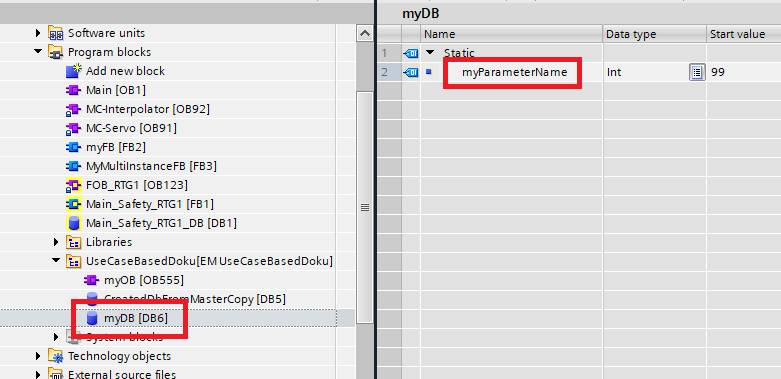
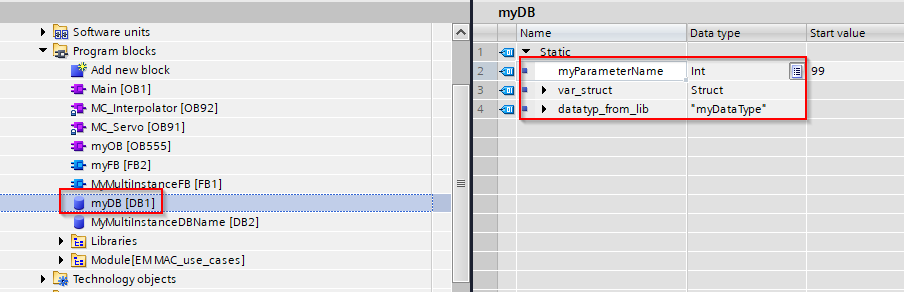
docs: Update Doxygen documentation

Changed region(s): [[0.0, 0.0, 1.0, 1.0]]

diff --git a/html/_generic_block_creation_8cs_source.html b/html/_generic_block_creation_8cs_source.html
@@ -155,17 +155,17 @@ $(function(){initNavTree('_generic_block_creation_8cs_source.html',''); initResi
 <div class="line"><a id="l00075" name="l00075"></a><span class="lineno">   75</span>            var axesDataDB = <span class="keyword">new</span> XmlGlobalDB(<a class="code hl_variable" href="class_m_a_c__use__cases_1_1_model_1_1_use_cases_1_1_generic_block_creation.html#a320981f311000b0caa2aa757c3fc51ab">dbName</a>);</div>
 <div class="line"><a id="l00076" name="l00076"></a><span class="lineno">   76</span>            var itf = axesDataDB.Interface[InterfaceSections.Static];</div>
 <div class="line"><a id="l00077" name="l00077"></a><span class="lineno">   77</span> </div>
-<div class="line"><a id="l00078" name="l00078"></a><span class="lineno">   78</span>            <span class="comment">//Define two interface parameters</span></div>
-<div class="line"><a id="l00079" name="l00079"></a><span class="lineno">   79</span>            InterfaceParameter standardParam;</div>
-<div class="line"><a id="l00080" name="l00080"></a><span class="lineno">   80</span>            InterfaceParameter customParam;</div>
-<div class="line"><a id="l00081" name="l00081"></a><span class="lineno">   81</span> </div>
-<div class="line"><a id="l00082" name="l00082"></a><span class="lineno">   82</span>            <span class="comment">//Create new parameters. The custom parameter means you are using your own user defined data type.</span></div>
-<div class="line"><a id="l00083" name="l00083"></a><span class="lineno">   83</span>            standardParam = <span class="keyword">new</span> InterfaceParameter(<a class="code hl_variable" href="class_m_a_c__use__cases_1_1_model_1_1_use_cases_1_1_generic_block_creation.html#a5055df5312bc4d73f1510c225ff3d24c">parameterName</a>, <span class="stringliteral">&quot;Int&quot;</span>);</div>
-<div class="line"><a id="l00084" name="l00084"></a><span class="lineno">   84</span>            customParam = <span class="keyword">new</span> InterfaceParameter(<a class="code hl_variable" href="class_m_a_c__use__cases_1_1_model_1_1_use_cases_1_1_generic_block_creation.html#a5055df5312bc4d73f1510c225ff3d24c">parameterName</a>, <span class="stringliteral">&quot;\&quot;&quot;</span> + <a class="code hl_variable" href="class_m_a_c__use__cases_1_1_model_1_1_use_cases_1_1_generic_block_creation.html#a06b0a6a47508b5048cdcbdd56c46c591">dataType</a> + <span class="stringliteral">&quot;\&quot;&quot;</span>);</div>
-<div class="line"><a id="l00085" name="l00085"></a><span class="lineno">   85</span> </div>
-<div class="line"><a id="l00086" name="l00086"></a><span class="lineno">   86</span>            <span class="comment">//Add your parameters </span></div>
-<div class="line"><a id="l00087" name="l00087"></a><span class="lineno">   87</span>            itf.Add(standardParam);</div>
-<div class="line"><a id="l00088" name="l00088"></a><span class="lineno">   88</span>            <span class="comment">//itf.Add(customParam); // Add this if your DataType exists</span></div>
+<div class="line"><a id="l00078" name="l00078"></a><span class="lineno">   78</span>            <span class="comment">//Create new parameters. The custom parameter means you are using your own user defined data type.</span></div>
+<div class="line"><a id="l00079" name="l00079"></a><span class="lineno">   79</span>            var standardParam = <span class="keyword">new</span> InterfaceParameter(<a class="code hl_variable" href="class_m_a_c__use__cases_1_1_model_1_1_use_cases_1_1_generic_block_creation.html#a5055df5312bc4d73f1510c225ff3d24c">parameterName</a>, <span class="stringliteral">&quot;Int&quot;</span>);</div>
+<div class="line"><a id="l00080" name="l00080"></a><span class="lineno">   80</span>            var customParam1 = <span class="keyword">new</span> InterfaceParameter(<span class="stringliteral">&quot;var_struct&quot;</span>, <span class="stringliteral">&quot;Struct&quot;</span>);</div>
+<div class="line"><a id="l00081" name="l00081"></a><span class="lineno">   81</span>            customParam1.SubParameter.Add(<span class="keyword">new</span> InterfaceParameter(<span class="stringliteral">&quot;Var1&quot;</span>, <span class="stringliteral">&quot;Bool&quot;</span>));</div>
+<div class="line"><a id="l00082" name="l00082"></a><span class="lineno">   82</span>            customParam1.SubParameter.Add(<span class="keyword">new</span> InterfaceParameter(<span class="stringliteral">&quot;Var2&quot;</span>, <span class="stringliteral">&quot;Int&quot;</span>));</div>
+<div class="line"><a id="l00083" name="l00083"></a><span class="lineno">   83</span>            var customParam2 = <span class="keyword">new</span> InterfaceParameter(<span class="stringliteral">&quot;datatyp_from_lib&quot;</span>, <span class="stringliteral">&quot;\&quot;&quot;</span> + <span class="stringliteral">&quot;myDataType&quot;</span> + <span class="stringliteral">&quot;\&quot;&quot;</span>);</div>
+<div class="line"><a id="l00084" name="l00084"></a><span class="lineno">   84</span> </div>
+<div class="line"><a id="l00085" name="l00085"></a><span class="lineno">   85</span>            <span class="comment">//Add your parameters </span></div>
+<div class="line"><a id="l00086" name="l00086"></a><span class="lineno">   86</span>            itf.Add(standardParam);</div>
+<div class="line"><a id="l00087" name="l00087"></a><span class="lineno">   87</span>            itf.Add(customParam1);</div>
+<div class="line"><a id="l00088" name="l00088"></a><span class="lineno">   88</span>            itf.Add(customParam2);</div>
 <div class="line"><a id="l00089" name="l00089"></a><span class="lineno">   89</span> </div>
 <div class="line"><a id="l00090" name="l00090"></a><span class="lineno">   90</span>            axesDataDB.GenerateXmlBlock(plcDevice);</div>
 <div class="line"><a id="l00091" name="l00091"></a><span class="lineno">   91</span>        }</div>
@@ -368,7 +368,7 @@ $(function(){initNavTree('_generic_block_creation_8cs_source.html',''); initResi
 <div class="ttc" id="aclass_m_a_c__use__cases_1_1_model_1_1_use_cases_1_1_generic_block_creation_html"><div class="ttname"><a href="class_m_a_c__use__cases_1_1_model_1_1_use_cases_1_1_generic_block_creation.html">MAC_use_cases.Model.UseCases.GenericBlockCreation</a></div><div class="ttdoc">All the functions to configure and generate Blocks are defined here.</div><div class="ttdef"><b>Definition</b> <a href="#l00017">GenericBlockCreation.cs:18</a></div></div>
 <div class="ttc" id="aclass_m_a_c__use__cases_1_1_model_1_1_use_cases_1_1_generic_block_creation_html_a04bfdaf6684648c9f6f02aa8203c364d"><div class="ttname"><a href="class_m_a_c__use__cases_1_1_model_1_1_use_cases_1_1_generic_block_creation.html#a04bfdaf6684648c9f6f02aa8203c364d">MAC_use_cases.Model.UseCases.GenericBlockCreation.AddCodeBlockToOB</a></div><div class="ttdeci">static void AddCodeBlockToOB(XmlLogicalBlock codeBlock, ResourceManagement resourceManagement, string languagesettings, PlcDevice plcDevice)</div><div class="ttdoc">This function checks if OB is already in TIA Project and merge the new one into the existing one depe...</div><div class="ttdef"><b>Definition</b> <a href="#l00235">GenericBlockCreation.cs:235</a></div></div>
 <div class="ttc" id="aclass_m_a_c__use__cases_1_1_model_1_1_use_cases_1_1_generic_block_creation_html_a06b0a6a47508b5048cdcbdd56c46c591"><div class="ttname"><a href="class_m_a_c__use__cases_1_1_model_1_1_use_cases_1_1_generic_block_creation.html#a06b0a6a47508b5048cdcbdd56c46c591">MAC_use_cases.Model.UseCases.GenericBlockCreation.dataType</a></div><div class="ttdeci">static string dataType</div><div class="ttdoc">This is the name of the generated datatype.</div><div class="ttdef"><b>Definition</b> <a href="#l00030">GenericBlockCreation.cs:30</a></div></div>
-<div class="ttc" id="aclass_m_a_c__use__cases_1_1_model_1_1_use_cases_1_1_generic_block_creation_html_a28ba56a459c7a46496f9ee8698e9974c"><div class="ttname"><a href="class_m_a_c__use__cases_1_1_model_1_1_use_cases_1_1_generic_block_creation.html#a28ba56a459c7a46496f9ee8698e9974c">MAC_use_cases.Model.UseCases.GenericBlockCreation.GenerateDB</a></div><div class="ttdeci">static void GenerateDB(string dbName, PlcDevice plcDevice, MAC_use_casesEM module)</div><div class="ttdoc">This function creates a Data Block with dynamic parameters in a desired folder.</div><div class="ttdef"><b>Definition</b> <a href="#l00073">GenericBlockCreation.cs:73</a></div></div>
+<div class="ttc" id="aclass_m_a_c__use__cases_1_1_model_1_1_use_cases_1_1_generic_block_creation_html_a28ba56a459c7a46496f9ee8698e9974c"><div class="ttname"><a href="class_m_a_c__use__cases_1_1_model_1_1_use_cases_1_1_generic_block_creation.html#a28ba56a459c7a46496f9ee8698e9974c">MAC_use_cases.Model.UseCases.GenericBlockCreation.GenerateDB</a></div><div class="ttdeci">static void GenerateDB(string dbName, PlcDevice plcDevice, MAC_use_casesEM module)</div><div class="ttdoc">This function creates a Data Block with interface (sub-)parameters in a desired folder....</div><div class="ttdef"><b>Definition</b> <a href="#l00073">GenericBlockCreation.cs:73</a></div></div>
 <div class="ttc" id="aclass_m_a_c__use__cases_1_1_model_1_1_use_cases_1_1_generic_block_creation_html_a31997b7cf0dfa6f6e5249e3135cee7aa"><div class="ttname"><a href="class_m_a_c__use__cases_1_1_model_1_1_use_cases_1_1_generic_block_creation.html#a31997b7cf0dfa6f6e5249e3135cee7aa">MAC_use_cases.Model.UseCases.GenericBlockCreation.SetDefaultValue</a></div><div class="ttdeci">static void SetDefaultValue(string dbName, string parameterName, TIATYPE dataType, string value, MAC_use_casesEM parent)</div><div class="ttdoc">This function sets the default value of a parameter in a DB.</div><div class="ttdef"><b>Definition</b> <a href="#l00130">GenericBlockCreation.cs:130</a></div></div>
 <div class="ttc" id="aclass_m_a_c__use__cases_1_1_model_1_1_use_cases_1_1_generic_block_creation_html_a320981f311000b0caa2aa757c3fc51ab"><div class="ttname"><a href="class_m_a_c__use__cases_1_1_model_1_1_use_cases_1_1_generic_block_creation.html#a320981f311000b0caa2aa757c3fc51ab">MAC_use_cases.Model.UseCases.GenericBlockCreation.dbName</a></div><div class="ttdeci">static string dbName</div><div class="ttdoc">This is the name of the generated DB.</div><div class="ttdef"><b>Definition</b> <a href="#l00022">GenericBlockCreation.cs:22</a></div></div>
 <div class="ttc" id="aclass_m_a_c__use__cases_1_1_model_1_1_use_cases_1_1_generic_block_creation_html_a36251f778d39a6f7a82c5ea22d4eff9f"><div class="ttname"><a href="class_m_a_c__use__cases_1_1_model_1_1_use_cases_1_1_generic_block_creation.html#a36251f778d39a6f7a82c5ea22d4eff9f">MAC_use_cases.Model.UseCases.GenericBlockCreation.GenerateOB_Main</a></div><div class="ttdeci">static void GenerateOB_Main(string instanceDbName, MAC_use_casesEM module, string languagesettings, PlcDevice plcDevice)</div><div class="ttdoc">This function generates an OB and creates an block call in FBD and SCL.</div><div class="ttdef"><b>Definition</b> <a href="#l00187">GenericBlockCreation.cs:187</a></div></div>

diff --git a/html/class_m_a_c__use__cases_1_1_model_1_1_use_cases_1_1_generic_block_creation.html b/html/class_m_a_c__use__cases_1_1_model_1_1_use_cases_1_1_generic_block_creation.html
@@ -114,7 +114,7 @@ Static Public Member Functions</h2></td></tr>
 <tr class="memdesc:a7a1152c4f1deae42637458bab9295508"><td class="mdescLeft">&#160;</td><td class="mdescRight">This function creates a FB in the target plc (folder under program blocks). Additional titles or comments can be added here too.  <br /></td></tr>
 <tr class="separator:a7a1152c4f1deae42637458bab9295508"><td class="memSeparator" colspan="2">&#160;</td></tr>
 <tr class="memitem:a28ba56a459c7a46496f9ee8698e9974c" id="r_a28ba56a459c7a46496f9ee8698e9974c"><td class="memItemLeft" align="right" valign="top">static void&#160;</td><td class="memItemRight" valign="bottom"><a class="el" href="#a28ba56a459c7a46496f9ee8698e9974c">GenerateDB</a> (string <a class="el" href="#a320981f311000b0caa2aa757c3fc51ab">dbName</a>, PlcDevice plcDevice, <a class="el" href="class_m_a_c__use__cases_1_1_model_1_1_m_a_c__use__cases_e_m.html">MAC_use_casesEM</a> module)</td></tr>
-<tr class="memdesc:a28ba56a459c7a46496f9ee8698e9974c"><td class="mdescLeft">&#160;</td><td class="mdescRight">This function creates a Data Block with dynamic parameters in a desired folder.  <br /></td></tr>
+<tr class="memdesc:a28ba56a459c7a46496f9ee8698e9974c"><td class="mdescLeft">&#160;</td><td class="mdescRight">This function creates a Data Block with interface (sub-)parameters in a desired folder. The variables in the interface can have a standard data types or a data type defined in the project.  <br /></td></tr>
 <tr class="separator:a28ba56a459c7a46496f9ee8698e9974c"><td class="memSeparator" colspan="2">&#160;</td></tr>
 <tr class="memitem:a31997b7cf0dfa6f6e5249e3135cee7aa" id="r_a31997b7cf0dfa6f6e5249e3135cee7aa"><td class="memItemLeft" align="right" valign="top">static void&#160;</td><td class="memItemRight" valign="bottom"><a class="el" href="#a31997b7cf0dfa6f6e5249e3135cee7aa">SetDefaultValue</a> (string <a class="el" href="#a320981f311000b0caa2aa757c3fc51ab">dbName</a>, string <a class="el" href="#a5055df5312bc4d73f1510c225ff3d24c">parameterName</a>, TIATYPE <a class="el" href="#a06b0a6a47508b5048cdcbdd56c46c591">dataType</a>, string value, <a class="el" href="class_m_a_c__use__cases_1_1_model_1_1_m_a_c__use__cases_e_m.html">MAC_use_casesEM</a> parent)</td></tr>
 <tr class="memdesc:a31997b7cf0dfa6f6e5249e3135cee7aa"><td class="mdescLeft">&#160;</td><td class="mdescRight">This function sets the default value of a parameter in a DB.  <br /></td></tr>
@@ -263,7 +263,7 @@ Static Private Member Functions</h2></td></tr>
 </table>
 </div><div class="memdoc">
 
-<p>This function creates a Data Block with dynamic parameters in a desired folder. </p>
+<p>This function creates a Data Block with interface (sub-)parameters in a desired folder. The variables in the interface can have a standard data types or a data type defined in the project. </p>
 <div class="image">
 <img src="GenerateDB.png" alt=""/>
 </div>
@@ -280,21 +280,20 @@ Static Private Member Functions</h2></td></tr>
 <div class="line"><span class="lineno">   75</span>            var axesDataDB = <span class="keyword">new</span> XmlGlobalDB(<a class="code hl_variable" href="#a320981f311000b0caa2aa757c3fc51ab">dbName</a>);</div>
 <div class="line"><span class="lineno">   76</span>            var itf = axesDataDB.Interface[InterfaceSections.Static];</div>
 <div class="line"><span class="lineno">   77</span> </div>
-<div class="line"><span class="lineno">   78</span>            <span class="comment">//Define two interface parameters</span></div>
-<div class="line"><span class="lineno">   79</span>            InterfaceParameter standardParam;</div>
-<div class="line"><span class="lineno">   80</span>            InterfaceParameter customParam;</div>
-<div class="line"><span class="lineno">   81</span> </div>
-<div class="line"><span class="lineno">   82</span>            <span class="comment">//Create new parameters. The custom parameter means you are using your own user defined data type.</span></div>
-<div class="line"><span class="lineno">   83</span>            standardParam = <span class="keyword">new</span> InterfaceParameter(<a class="code hl_variable" href="#a5055df5312bc4d73f1510c225ff3d24c">parameterName</a>, <span class="stringliteral">&quot;Int&quot;</span>);</div>
-<div class="line"><span class="lineno">   84</span>            customParam = <span class="keyword">new</span> InterfaceParameter(<a class="code hl_variable" href="#a5055df5312bc4d73f1510c225ff3d24c">parameterName</a>, <span class="stringliteral">&quot;\&quot;&quot;</span> + <a class="code hl_variable" href="#a06b0a6a47508b5048cdcbdd56c46c591">dataType</a> + <span class="stringliteral">&quot;\&quot;&quot;</span>);</div>
-<div class="line"><span class="lineno">   85</span> </div>
-<div class="line"><span class="lineno">   86</span>            <span class="comment">//Add your parameters </span></div>
-<div class="line"><span class="lineno">   87</span>            itf.Add(standardParam);</div>
-<div class="line"><span class="lineno">   88</span>            <span class="comment">//itf.Add(customParam); // Add this if your DataType exists</span></div>
+<div class="line"><span class="lineno">   78</span>            <span class="comment">//Create new parameters. The custom parameter means you are using your own user defined data type.</span></div>
+<div class="line"><span class="lineno">   79</span>            var standardParam = <span class="keyword">new</span> InterfaceParameter(<a class="code hl_variable" href="#a5055df5312bc4d73f1510c225ff3d24c">parameterName</a>, <span class="stringliteral">&quot;Int&quot;</span>);</div>
+<div class="line"><span class="lineno">   80</span>            var customParam1 = <span class="keyword">new</span> InterfaceParameter(<span class="stringliteral">&quot;var_struct&quot;</span>, <span class="stringliteral">&quot;Struct&quot;</span>);</div>
+<div class="line"><span class="lineno">   81</span>            customParam1.SubParameter.Add(<span class="keyword">new</span> InterfaceParameter(<span class="stringliteral">&quot;Var1&quot;</span>, <span class="stringliteral">&quot;Bool&quot;</span>));</div>
+<div class="line"><span class="lineno">   82</span>            customParam1.SubParameter.Add(<span class="keyword">new</span> InterfaceParameter(<span class="stringliteral">&quot;Var2&quot;</span>, <span class="stringliteral">&quot;Int&quot;</span>));</div>
+<div class="line"><span class="lineno">   83</span>            var customParam2 = <span class="keyword">new</span> InterfaceParameter(<span class="stringliteral">&quot;datatyp_from_lib&quot;</span>, <span class="stringliteral">&quot;\&quot;&quot;</span> + <span class="stringliteral">&quot;myDataType&quot;</span> + <span class="stringliteral">&quot;\&quot;&quot;</span>);</div>
+<div class="line"><span class="lineno">   84</span> </div>
+<div class="line"><span class="lineno">   85</span>            <span class="comment">//Add your parameters </span></div>
+<div class="line"><span class="lineno">   86</span>            itf.Add(standardParam);</div>
+<div class="line"><span class="lineno">   87</span>            itf.Add(customParam1);</div>
+<div class="line"><span class="lineno">   88</span>            itf.Add(customParam2);</div>
 <div class="line"><span class="lineno">   89</span> </div>
 <div class="line"><span class="lineno">   90</span>            axesDataDB.GenerateXmlBlock(plcDevice);</div>
 <div class="line"><span class="lineno">   91</span>        }</div>
-<div class="ttc" id="aclass_m_a_c__use__cases_1_1_model_1_1_use_cases_1_1_generic_block_creation_html_a06b0a6a47508b5048cdcbdd56c46c591"><div class="ttname"><a href="#a06b0a6a47508b5048cdcbdd56c46c591">MAC_use_cases.Model.UseCases.GenericBlockCreation.dataType</a></div><div class="ttdeci">static string dataType</div><div class="ttdoc">This is the name of the generated datatype.</div><div class="ttdef"><b>Definition</b> <a href="_generic_block_creation_8cs_source.html#l00030">GenericBlockCreation.cs:30</a></div></div>
 <div class="ttc" id="aclass_m_a_c__use__cases_1_1_model_1_1_use_cases_1_1_generic_block_creation_html_a320981f311000b0caa2aa757c3fc51ab"><div class="ttname"><a href="#a320981f311000b0caa2aa757c3fc51ab">MAC_use_cases.Model.UseCases.GenericBlockCreation.dbName</a></div><div class="ttdeci">static string dbName</div><div class="ttdoc">This is the name of the generated DB.</div><div class="ttdef"><b>Definition</b> <a href="_generic_block_creation_8cs_source.html#l00022">GenericBlockCreation.cs:22</a></div></div>
 <div class="ttc" id="aclass_m_a_c__use__cases_1_1_model_1_1_use_cases_1_1_generic_block_creation_html_a5055df5312bc4d73f1510c225ff3d24c"><div class="ttname"><a href="#a5055df5312bc4d73f1510c225ff3d24c">MAC_use_cases.Model.UseCases.GenericBlockCreation.parameterName</a></div><div class="ttdeci">static string parameterName</div><div class="ttdoc">This is the name of the generated parameter.</div><div class="ttdef"><b>Definition</b> <a href="_generic_block_creation_8cs_source.html#l00026">GenericBlockCreation.cs:26</a></div></div>
 </div><!-- fragment -->
@@ -434,6 +433,7 @@ Static Private Member Functions</h2></td></tr>
 <div class="line"><span class="lineno">  133</span>                <a class="code hl_variable" href="#a320981f311000b0caa2aa757c3fc51ab">dbName</a>, <a class="code hl_variable" href="#a5055df5312bc4d73f1510c225ff3d24c">parameterName</a>, parent);</div>
 <div class="line"><span class="lineno">  134</span>            myParameterNameAttribute.Value = value;</div>
 <div class="line"><span class="lineno">  135</span>        }</div>
+<div class="ttc" id="aclass_m_a_c__use__cases_1_1_model_1_1_use_cases_1_1_generic_block_creation_html_a06b0a6a47508b5048cdcbdd56c46c591"><div class="ttname"><a href="#a06b0a6a47508b5048cdcbdd56c46c591">MAC_use_cases.Model.UseCases.GenericBlockCreation.dataType</a></div><div class="ttdeci">static string dataType</div><div class="ttdoc">This is the name of the generated datatype.</div><div class="ttdef"><b>Definition</b> <a href="_generic_block_creation_8cs_source.html#l00030">GenericBlockCreation.cs:30</a></div></div>
 </div><!-- fragment -->
 </div>
 </div>

diff --git a/html/_m_a_c__use__cases_e_m_8cs_source.html b/html/_m_a_c__use__cases_e_m_8cs_source.html
@@ -229,15 +229,16 @@ $(function(){initNavTree('_m_a_c__use__cases_e_m_8cs_source.html',''); initResiz
 <div class="line"><a id="l00147" name="l00147"></a><span class="lineno">  147</span>                    provider.WriteValues(<a class="code hl_variable" href="class_m_a_c__use__cases_1_1_model_1_1_m_a_c__use__cases_e_m.html#a9f32694c51904f696e3505ae3f6c1e5d">m_plcDevice</a>);</div>
 <div class="line"><a id="l00148" name="l00148"></a><span class="lineno">  148</span>                    <span class="keywordflow">break</span>;</div>
 <div class="line"><a id="l00149" name="l00149"></a><span class="lineno">  149</span>            }</div>
-<div class="line"><a id="l00150" name="l00150"></a><span class="lineno">  150</span>            <span class="keywordflow">return</span> <span class="keyword">true</span>;</div>
-<div class="line"><a id="l00151" name="l00151"></a><span class="lineno">  151</span>        }</div>
-<div class="line"><a id="l00152" name="l00152"></a><span class="lineno">  152</span>    }</div>
+<div class="line"><a id="l00150" name="l00150"></a><span class="lineno">  150</span> </div>
+<div class="line"><a id="l00151" name="l00151"></a><span class="lineno">  151</span>            <span class="keywordflow">return</span> <span class="keyword">true</span>;</div>
+<div class="line"><a id="l00152" name="l00152"></a><span class="lineno">  152</span>        }</div>
+<div class="line"><a id="l00153" name="l00153"></a><span class="lineno">  153</span>    }</div>
 </div>
-<div class="line"><a id="l00153" name="l00153"></a><span class="lineno">  153</span> </div>
 <div class="line"><a id="l00154" name="l00154"></a><span class="lineno">  154</span> </div>
 <div class="line"><a id="l00155" name="l00155"></a><span class="lineno">  155</span> </div>
 <div class="line"><a id="l00156" name="l00156"></a><span class="lineno">  156</span> </div>
-<div class="line"><a id="l00201" name="l00201"></a><span class="lineno">  201</span>}</div>
+<div class="line"><a id="l00157" name="l00157"></a><span class="lineno">  157</span> </div>
+<div class="line"><a id="l00202" name="l00202"></a><span class="lineno">  202</span>}</div>
 <div class="ttc" id="aclass_m_a_c__use__cases_1_1_model_1_1_base_m_a_c__use__cases_e_m_html"><div class="ttname"><a href="class_m_a_c__use__cases_1_1_model_1_1_base_m_a_c__use__cases_e_m.html">MAC_use_cases.Model.BaseMAC_use_casesEM</a></div><div class="ttdoc">This is generated code to extend the functionality of the EQM. Do not modify!</div><div class="ttdef"><b>Definition</b> <a href="_base_m_a_c__use__cases_e_m_generated_items_8cs_source.html#l00017">BaseMAC_use_casesEMGeneratedItems.cs:18</a></div></div>
 <div class="ttc" id="aclass_m_a_c__use__cases_1_1_model_1_1_base_m_a_c__use__cases_e_m_html_a18ef0a60847ff2495a4afc1ad535a7af"><div class="ttname"><a href="class_m_a_c__use__cases_1_1_model_1_1_base_m_a_c__use__cases_e_m.html#a18ef0a60847ff2495a4afc1ad535a7af">MAC_use_cases.Model.BaseMAC_use_casesEM.InitAfterFirstCreationOrDeserialization</a></div><div class="ttdeci">virtual void InitAfterFirstCreationOrDeserialization()</div><div class="ttdoc">Every logic and setting must be here which is important at the first creation or deserialization of t...</div><div class="ttdef"><b>Definition</b> <a href="_base_m_a_c__use__cases_e_m_8cs_source.html#l00105">BaseMAC_use_casesEM.cs:105</a></div></div>
 <div class="ttc" id="aclass_m_a_c__use__cases_1_1_model_1_1_base_m_a_c__use__cases_e_m_html_a24b53ba4d5580cb5881d99ba6bca233b"><div class="ttname"><a href="class_m_a_c__use__cases_1_1_model_1_1_base_m_a_c__use__cases_e_m.html#a24b53ba4d5580cb5881d99ba6bca233b">MAC_use_cases.Model.BaseMAC_use_casesEM.CreateControlModules</a></div><div class="ttdeci">virtual void CreateControlModules()</div><div class="ttdoc">Creates Control Modules and adds them to the project.</div><div class="ttdef"><b>Definition</b> <a href="_base_m_a_c__use__cases_e_m_8cs_source.html#l00113">BaseMAC_use_casesEM.cs:113</a></div></div>
@@ -251,7 +252,7 @@ $(function(){initNavTree('_m_a_c__use__cases_e_m_8cs_source.html',''); initResiz
 <div class="ttc" id="aclass_m_a_c__use__cases_1_1_model_1_1_use_cases_1_1_create_variables_html_a196e9521a76bc297ab213ef7f1b53a12"><div class="ttname"><a href="class_m_a_c__use__cases_1_1_model_1_1_use_cases_1_1_create_variables.html#a196e9521a76bc297ab213ef7f1b53a12">MAC_use_cases.Model.UseCases.CreateVariables.CreateTagTable</a></div><div class="ttdeci">static ControllerTags CreateTagTable(PlcDevice plcDevice, string tableName)</div><div class="ttdoc">This Function creates a Tag Table.</div><div class="ttdef"><b>Definition</b> <a href="_create_variables_8cs_source.html#l00020">CreateVariables.cs:20</a></div></div>
 <div class="ttc" id="aclass_m_a_c__use__cases_1_1_model_1_1_use_cases_1_1_create_variables_html_a4b1dcd0fee94bcf523825eddf1416d58"><div class="ttname"><a href="class_m_a_c__use__cases_1_1_model_1_1_use_cases_1_1_create_variables.html#a4b1dcd0fee94bcf523825eddf1416d58">MAC_use_cases.Model.UseCases.CreateVariables.CreateTagInTagTable</a></div><div class="ttdeci">static void CreateTagInTagTable(ControllerTags tagTable, string addressType, string addressByte, string addressBit, string tagName, string dataType, string tagComment)</div><div class="ttdoc">This Function creates a Tag in a Tag Table.</div><div class="ttdef"><b>Definition</b> <a href="_create_variables_8cs_source.html#l00039">CreateVariables.cs:39</a></div></div>
 <div class="ttc" id="aclass_m_a_c__use__cases_1_1_model_1_1_use_cases_1_1_generic_block_creation_html"><div class="ttname"><a href="class_m_a_c__use__cases_1_1_model_1_1_use_cases_1_1_generic_block_creation.html">MAC_use_cases.Model.UseCases.GenericBlockCreation</a></div><div class="ttdoc">All the functions to configure and generate Blocks are defined here.</div><div class="ttdef"><b>Definition</b> <a href="_generic_block_creation_8cs_source.html#l00017">GenericBlockCreation.cs:18</a></div></div>
-<div class="ttc" id="aclass_m_a_c__use__cases_1_1_model_1_1_use_cases_1_1_generic_block_creation_html_a28ba56a459c7a46496f9ee8698e9974c"><div class="ttname"><a href="class_m_a_c__use__cases_1_1_model_1_1_use_cases_1_1_generic_block_creation.html#a28ba56a459c7a46496f9ee8698e9974c">MAC_use_cases.Model.UseCases.GenericBlockCreation.GenerateDB</a></div><div class="ttdeci">static void GenerateDB(string dbName, PlcDevice plcDevice, MAC_use_casesEM module)</div><div class="ttdoc">This function creates a Data Block with dynamic parameters in a desired folder.</div><div class="ttdef"><b>Definition</b> <a href="_generic_block_creation_8cs_source.html#l00073">GenericBlockCreation.cs:73</a></div></div>
+<div class="ttc" id="aclass_m_a_c__use__cases_1_1_model_1_1_use_cases_1_1_generic_block_creation_html_a28ba56a459c7a46496f9ee8698e9974c"><div class="ttname"><a href="class_m_a_c__use__cases_1_1_model_1_1_use_cases_1_1_generic_block_creation.html#a28ba56a459c7a46496f9ee8698e9974c">MAC_use_cases.Model.UseCases.GenericBlockCreation.GenerateDB</a></div><div class="ttdeci">static void GenerateDB(string dbName, PlcDevice plcDevice, MAC_use_casesEM module)</div><div class="ttdoc">This function creates a Data Block with interface (sub-)parameters in a desired folder....</div><div class="ttdef"><b>Definition</b> <a href="_generic_block_creation_8cs_source.html#l00073">GenericBlockCreation.cs:73</a></div></div>
 <div class="ttc" id="aclass_m_a_c__use__cases_1_1_model_1_1_use_cases_1_1_generic_block_creation_html_a31997b7cf0dfa6f6e5249e3135cee7aa"><div class="ttname"><a href="class_m_a_c__use__cases_1_1_model_1_1_use_cases_1_1_generic_block_creation.html#a31997b7cf0dfa6f6e5249e3135cee7aa">MAC_use_cases.Model.UseCases.GenericBlockCreation.SetDefaultValue</a></div><div class="ttdeci">static void SetDefaultValue(string dbName, string parameterName, TIATYPE dataType, string value, MAC_use_casesEM parent)</div><div class="ttdoc">This function sets the default value of a parameter in a DB.</div><div class="ttdef"><b>Definition</b> <a href="_generic_block_creation_8cs_source.html#l00130">GenericBlockCreation.cs:130</a></div></div>
 <div class="ttc" id="aclass_m_a_c__use__cases_1_1_model_1_1_use_cases_1_1_generic_block_creation_html_a36251f778d39a6f7a82c5ea22d4eff9f"><div class="ttname"><a href="class_m_a_c__use__cases_1_1_model_1_1_use_cases_1_1_generic_block_creation.html#a36251f778d39a6f7a82c5ea22d4eff9f">MAC_use_cases.Model.UseCases.GenericBlockCreation.GenerateOB_Main</a></div><div class="ttdeci">static void GenerateOB_Main(string instanceDbName, MAC_use_casesEM module, string languagesettings, PlcDevice plcDevice)</div><div class="ttdoc">This function generates an OB and creates an block call in FBD and SCL.</div><div class="ttdef"><b>Definition</b> <a href="_generic_block_creation_8cs_source.html#l00187">GenericBlockCreation.cs:187</a></div></div>
 <div class="ttc" id="aclass_m_a_c__use__cases_1_1_model_1_1_use_cases_1_1_generic_block_creation_html_a50f8e71392418ef5a56be91d17e7894b"><div class="ttname"><a href="class_m_a_c__use__cases_1_1_model_1_1_use_cases_1_1_generic_block_creation.html#a50f8e71392418ef5a56be91d17e7894b">MAC_use_cases.Model.UseCases.GenericBlockCreation.GenerateMultiInstanceFB</a></div><div class="ttdeci">static void GenerateMultiInstanceFB(PlcDevice plcDevice, string languagesettings, MAC_use_casesEM module)</div><div class="ttdoc">This function creates an multiInstanceFB.</div><div class="ttdef"><b>Definition</b> <a href="_generic_block_creation_8cs_source.html#l00144">GenericBlockCreation.cs:144</a></div></div>

diff --git a/html/class_m_a_c__use__cases_1_1_model_1_1_m_a_c__use__cases_e_m.html b/html/class_m_a_c__use__cases_1_1_model_1_1_m_a_c__use__cases_e_m.html
@@ -355,15 +355,16 @@ Additional Inherited Members</h2></td></tr>
 <div class="line"><span class="lineno">  147</span>                    provider.WriteValues(<a class="code hl_variable" href="#a9f32694c51904f696e3505ae3f6c1e5d">m_plcDevice</a>);</div>
 <div class="line"><span class="lineno">  148</span>                    <span class="keywordflow">break</span>;</div>
 <div class="line"><span class="lineno">  149</span>            }</div>
-<div class="line"><span class="lineno">  150</span>            <span class="keywordflow">return</span> <span class="keyword">true</span>;</div>
-<div class="line"><span class="lineno">  151</span>        }</div>
+<div class="line"><span class="lineno">  150</span> </div>
+<div class="line"><span class="lineno">  151</span>            <span class="keywordflow">return</span> <span class="keyword">true</span>;</div>
+<div class="line"><span class="lineno">  152</span>        }</div>
 <div class="ttc" id="aclass_m_a_c__use__cases_1_1_model_1_1_m_a_c__use__cases_e_m_html_a379dcb4729a98dd2cab8293a8094a531"><div class="ttname"><a href="#a379dcb4729a98dd2cab8293a8094a531">MAC_use_cases.Model.MAC_use_casesEM.NameOfMyFb</a></div><div class="ttdeci">string NameOfMyFb</div><div class="ttdoc">This attribute is the string which is used for the renaming of the FB. This string can be changed in ...</div><div class="ttdef"><b>Definition</b> <a href="_m_a_c__use__cases_e_m_8cs_source.html#l00046">MAC_use_casesEM.cs:46</a></div></div>
 <div class="ttc" id="aclass_m_a_c__use__cases_1_1_model_1_1_m_a_c__use__cases_e_m_html_a9f32694c51904f696e3505ae3f6c1e5d"><div class="ttname"><a href="#a9f32694c51904f696e3505ae3f6c1e5d">MAC_use_cases.Model.MAC_use_casesEM.m_plcDevice</a></div><div class="ttdeci">PlcDevice m_plcDevice</div><div class="ttdoc">This attribute is the instance of the plcDevice.</div><div class="ttdef"><b>Definition</b> <a href="_m_a_c__use__cases_e_m_8cs_source.html#l00030">MAC_use_casesEM.cs:30</a></div></div>
 <div class="ttc" id="aclass_m_a_c__use__cases_1_1_model_1_1_use_cases_1_1_create_variables_html"><div class="ttname"><a href="class_m_a_c__use__cases_1_1_model_1_1_use_cases_1_1_create_variables.html">MAC_use_cases.Model.UseCases.CreateVariables</a></div><div class="ttdoc">All the functions to configure and generate Tags and Tag Tables are defined here.</div><div class="ttdef"><b>Definition</b> <a href="_create_variables_8cs_source.html#l00009">CreateVariables.cs:10</a></div></div>
 <div class="ttc" id="aclass_m_a_c__use__cases_1_1_model_1_1_use_cases_1_1_create_variables_html_a196e9521a76bc297ab213ef7f1b53a12"><div class="ttname"><a href="class_m_a_c__use__cases_1_1_model_1_1_use_cases_1_1_create_variables.html#a196e9521a76bc297ab213ef7f1b53a12">MAC_use_cases.Model.UseCases.CreateVariables.CreateTagTable</a></div><div class="ttdeci">static ControllerTags CreateTagTable(PlcDevice plcDevice, string tableName)</div><div class="ttdoc">This Function creates a Tag Table.</div><div class="ttdef"><b>Definition</b> <a href="_create_variables_8cs_source.html#l00020">CreateVariables.cs:20</a></div></div>
 <div class="ttc" id="aclass_m_a_c__use__cases_1_1_model_1_1_use_cases_1_1_create_variables_html_a4b1dcd0fee94bcf523825eddf1416d58"><div class="ttname"><a href="class_m_a_c__use__cases_1_1_model_1_1_use_cases_1_1_create_variables.html#a4b1dcd0fee94bcf523825eddf1416d58">MAC_use_cases.Model.UseCases.CreateVariables.CreateTagInTagTable</a></div><div class="ttdeci">static void CreateTagInTagTable(ControllerTags tagTable, string addressType, string addressByte, string addressBit, string tagName, string dataType, string tagComment)</div><div class="ttdoc">This Function creates a Tag in a Tag Table.</div><div class="ttdef"><b>Definition</b> <a href="_create_variables_8cs_source.html#l00039">CreateVariables.cs:39</a></div></div>
 <div class="ttc" id="aclass_m_a_c__use__cases_1_1_model_1_1_use_cases_1_1_generic_block_creation_html"><div class="ttname"><a href="class_m_a_c__use__cases_1_1_model_1_1_use_cases_1_1_generic_block_creation.html">MAC_use_cases.Model.UseCases.GenericBlockCreation</a></div><div class="ttdoc">All the functions to configure and generate Blocks are defined here.</div><div class="ttdef"><b>Definition</b> <a href="_generic_block_creation_8cs_source.html#l00017">GenericBlockCreation.cs:18</a></div></div>
-<div class="ttc" id="aclass_m_a_c__use__cases_1_1_model_1_1_use_cases_1_1_generic_block_creation_html_a28ba56a459c7a46496f9ee8698e9974c"><div class="ttname"><a href="class_m_a_c__use__cases_1_1_model_1_1_use_cases_1_1_generic_block_creation.html#a28ba56a459c7a46496f9ee8698e9974c">MAC_use_cases.Model.UseCases.GenericBlockCreation.GenerateDB</a></div><div class="ttdeci">static void GenerateDB(string dbName, PlcDevice plcDevice, MAC_use_casesEM module)</div><div class="ttdoc">This function creates a Data Block with dynamic parameters in a desired folder.</div><div class="ttdef"><b>Definition</b> <a href="_generic_block_creation_8cs_source.html#l00073">GenericBlockCreation.cs:73</a></div></div>
+<div class="ttc" id="aclass_m_a_c__use__cases_1_1_model_1_1_use_cases_1_1_generic_block_creation_html_a28ba56a459c7a46496f9ee8698e9974c"><div class="ttname"><a href="class_m_a_c__use__cases_1_1_model_1_1_use_cases_1_1_generic_block_creation.html#a28ba56a459c7a46496f9ee8698e9974c">MAC_use_cases.Model.UseCases.GenericBlockCreation.GenerateDB</a></div><div class="ttdeci">static void GenerateDB(string dbName, PlcDevice plcDevice, MAC_use_casesEM module)</div><div class="ttdoc">This function creates a Data Block with interface (sub-)parameters in a desired folder....</div><div class="ttdef"><b>Definition</b> <a href="_generic_block_creation_8cs_source.html#l00073">GenericBlockCreation.cs:73</a></div></div>
 <div class="ttc" id="aclass_m_a_c__use__cases_1_1_model_1_1_use_cases_1_1_generic_block_creation_html_a31997b7cf0dfa6f6e5249e3135cee7aa"><div class="ttname"><a href="class_m_a_c__use__cases_1_1_model_1_1_use_cases_1_1_generic_block_creation.html#a31997b7cf0dfa6f6e5249e3135cee7aa">MAC_use_cases.Model.UseCases.GenericBlockCreation.SetDefaultValue</a></div><div class="ttdeci">static void SetDefaultValue(string dbName, string parameterName, TIATYPE dataType, string value, MAC_use_casesEM parent)</div><div class="ttdoc">This function sets the default value of a parameter in a DB.</div><div class="ttdef"><b>Definition</b> <a href="_generic_block_creation_8cs_source.html#l00130">GenericBlockCreation.cs:130</a></div></div>
 <div class="ttc" id="aclass_m_a_c__use__cases_1_1_model_1_1_use_cases_1_1_generic_block_creation_html_a36251f778d39a6f7a82c5ea22d4eff9f"><div class="ttname"><a href="class_m_a_c__use__cases_1_1_model_1_1_use_cases_1_1_generic_block_creation.html#a36251f778d39a6f7a82c5ea22d4eff9f">MAC_use_cases.Model.UseCases.GenericBlockCreation.GenerateOB_Main</a></div><div class="ttdeci">static void GenerateOB_Main(string instanceDbName, MAC_use_casesEM module, string languagesettings, PlcDevice plcDevice)</div><div class="ttdoc">This function generates an OB and creates an block call in FBD and SCL.</div><div class="ttdef"><b>Definition</b> <a href="_generic_block_creation_8cs_source.html#l00187">GenericBlockCreation.cs:187</a></div></div>
 <div class="ttc" id="aclass_m_a_c__use__cases_1_1_model_1_1_use_cases_1_1_generic_block_creation_html_a50f8e71392418ef5a56be91d17e7894b"><div class="ttname"><a href="class_m_a_c__use__cases_1_1_model_1_1_use_cases_1_1_generic_block_creation.html#a50f8e71392418ef5a56be91d17e7894b">MAC_use_cases.Model.UseCases.GenericBlockCreation.GenerateMultiInstanceFB</a></div><div class="ttdeci">static void GenerateMultiInstanceFB(PlcDevice plcDevice, string languagesettings, MAC_use_casesEM module)</div><div class="ttdoc">This function creates an multiInstanceFB.</div><div class="ttdef"><b>Definition</b> <a href="_generic_block_creation_8cs_source.html#l00144">GenericBlockCreation.cs:144</a></div></div>
